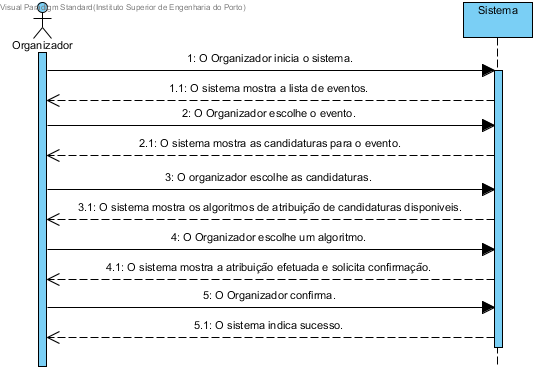
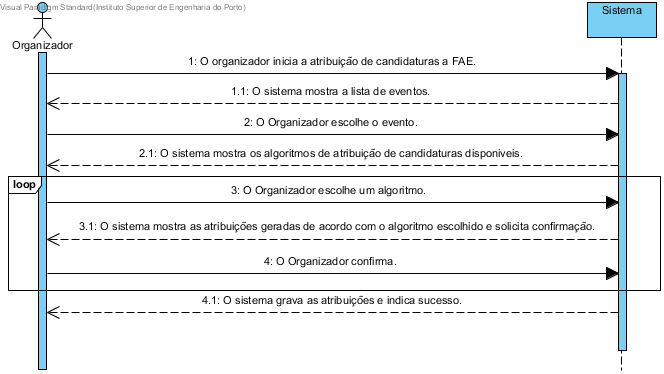
Reformulção do design do uc1 e uc4

Changed region(s): [[0.0, 0.0, 1.0, 1.0]]

diff --git a/Iteração 2/Design/UC4DOO.md b/Iteração 2/Design/UC4DOO.md
@@ -2,21 +2,19 @@
 
 ## Racional ##
 
-| Cenário principal                                                                                                                                                       | Questão: Que classe deve...                               | Resposta          | Justificação                                                                                |
-|-------------------------------------------------------------------------------------------------------------------------------------------------------------------------|-----------------------------------------------------------|-------------------|---------------------------------------------------------------------------------------------|
-| 1. O organizador inicia a atribuição de candidaturas a FAE.                                                                                                             | n/a                                                       |                   |                                                                                             |
-| 2. O sistema fornece a sua lista de eventos com candidaturas por atribuir e cuja a data de submissão de candidaturas tenha expirado e solicita a selecção de um evento. | ...procurar os eventos do organizador?                    | Centro de eventos | IE: é a classe reponsável por armazenar todos os eventos criados.                           |
-|                                                                                                                                                                         | ...procurar as datas de submissão de candidaturas?        | Evento            | IE: é a classe reponsável por armazenar todos os dados do evento.                           |
-| 3. O organizador escolhe um evento.                                                                                                                                     | n/a                                                       |                   |                                                                                             |
-| 4. O sistema apresenta uma lista das candidaturas por atribuir aos FAE desse evento.                                                                                    | ...procurar as candidaturas por atribuir do evento?       | Evento            | IE: é a classe responsável por armazenar todas as candidaturas do evento.                   |
-| 5. O organizador escolhe uma candidatura.                                                                                                                               | n/a                                                       |                   |                                                                                             |
-| 6. O sistema mostra os algoritmos de atribuição de candidaturas disponiveis.                                                                                            | ...executar o algoritmo?                                  | Algoritmo         | IE: é a classe responsável por armazenar todas as funcionalidades do algoritmo.             |
-| 7. O organizador escolhe um algoritmo.                                                                                                                                  | n/a                                                       |                   |                                                                                             |
-| 8. O sistema atribui a candidatura ao FAE com base no algoritmo.                                                                                                        | ...armazenar a candidatura por avaliar e o respetivo FAE? | Atribuição        | Creator                                                                                     |
-| 9. Os passos 4 a 8 repetem-se até todas as candidaturas do evento terem sido atribuidas.                                                                                | n/a                                                       |                   |                                                                                             |
-| 10. O sistema apresenta as atribuições definidas e solicita confirmação.                                                                                                | n/a                                                       |                   |                                                                                             |
-| 11. O organizador confirma.                                                                                                                                             | n/a                                                       |                   |                                                                                             |
-| 12. O sistema regista as atribuições de candidaturas a FAE e indica sucesso.                                                                                            | ...gravar as atribuições?                                 | Evento            | IE: é a classe responsável por armazenar as atribuições das candidaturas por avaliar e FAE. |
+| Cenário principal                                                                                                                                                       | Questão: Que classe deve...                               | Resposta          | Justificação                                                             |
+|-------------------------------------------------------------------------------------------------------------------------------------------------------------------------|-----------------------------------------------------------|-------------------|--------------------------------------------------------------------------|
+| 1. O organizador inicia a atribuição de candidaturas a FAE.                                                                                                             | n/a                                                       |                   |                                                                          |
+| 2. O sistema fornece a sua lista de eventos com candidaturas por atribuir e cuja a data de submissão de candidaturas tenha expirado e solicita a selecção de um evento. | ...procurar os eventos do organizador?                    | Centro de eventos | IE: é a classe reponsável por armazenar todos os eventos criados.        |
+|                                                                                                                                                                         | ...procurar as datas de submissão de candidaturas?        | Evento            | IE: é a classe reponsável por armazenar todos os dados do evento.        |
+| 3. O organizador escolhe um evento.                                                                                                                                     | n/a                                                       |                   |                                                                          |
+| 4. O sistema mostra os algoritmos de atribuição de candidaturas disponiveis.                                                                                            | ...procurar os algoritmos?                                | Centro de Eventos | IE: é a classe responsável por armazenar todos os algoritmos do sistema. |
+| 5. O organizador escolhe um algoritmo.                                                                                                                                  | n/a                                                       |                   |                                                                          |
+| 6. O sistema mostra as atribuições geradas de acordo com o algoritmo escolhido e pergunta se este deve ser considerado de forma definitiva.                             | ...armazenar a candidatura por avaliar e o respetivo FAE? | Atribuição        | IE: é a classe responsável por armazenar todos os dados da atribuição.   |
+|                                                                                                                                                                         | ...instanciar a atribuição?                               | Evento            | Creator                                                                  |
+| 7.,O Organizador responde à pergunta.                                                                                                                                   | n/a                                                       |                   |                                                                          |
+| 8. Os passos 4 a 7 são repetidos até à escolha definitiva do resultado do algoritmo.                                                                                    | n/a                                                       |                   |                                                                          |
+| 9. O sistema guarda as atribuições geradas, informando do sucesso da operação.                                                                                          | ...guardar as atribuições?                                | Evento            | IE: é a classe responsável por armazenar todas as atribuições do evento. |
 
 
 

diff --git a/Iteração 2/Design/UC1DOO.md b/Iteração 2/Design/UC1DOO.md
@@ -2,25 +2,26 @@
 
 ## Racional ##
 
-| Cenário principal                                                                                                                                         | Questão: Que classe deve... | Resposta          | Justificação                                                      |
-|-----------------------------------------------------------------------------------------------------------------------------------------------------------|-----------------------------|-------------------|-------------------------------------------------------------------|
-| 1. O gestor de eventos inicia o registo do evento.                                                                                                        | n/a                         |                   |                                                                   |
-| 2. O sistema solicita o tipo de evento(Congresso ou Exposição).                                                                                           | ...Instanciar o evento?     | Centro de Eventos | Creator                                                           |
-| 3. O gestor de eventos seleciona o tipo de evento.                                                                                                        | n/a                         |                   |                                                                   |
-| 4. O sistema solicita os dados do evento(titulo, descrição, data de inicio, data de fim, data limite de submissão de candidaturas e local de realização). | ...Armazenar os dados?      | Evento            | IE:classe responsável por armazenar os dados do evento            |
-| 5. O gestor de eventos introduz os dados solicitados.                                                                                                     | n/a                         |                   |                                                                   |
-| 6. O sistema solicita um organizador para o evento.                                                                                                       | n/a                         |                   |                                                                   |
-| 7. O gestor de eventos insere um organizador.                                                                                                             | n/a                         |                   |                                                                   |
-| 8. O sistema valida o organizador e adiciona-o ao evento.                                                                                                 | ..Armazenar os dados?       | Evento            | IE: classe que armazena os organizadores responsáveis pelo evento |
-|                                                                                                                                                           | ...Valida o organizador?    | Centro de Eventos | IE: classe que armazena os utilizadores criados                   |
-| 9. Os passos 6 a 8 repetem-se até que todos os organizadores tenham sido adicionados e no minimo tenham sido adicionados dois organizadores ao evento.    | n/a                         |                   |                                                                   |
-| 10. O sistema apresenta todos os dados e solicita confirmação do gestor.                                                                                  | n/a                         |                   |                                                                   |
-| 11. O gestor confirma os dados.                                                                                                                           | n/a                         |                   |                                                                   |
-| 12. O sistema regista o novo evento e informa o gestor do sucesso da operação.                                                                            | ...Registar o evento?       | Centro de Eventos | IE: classe que armazena todos os eventos                          |                                                                            
-
+| Cenário principal                                                                                                                                         | Questão: Que classe deve...  | Resposta          | Justificação                                                                    |
+|-----------------------------------------------------------------------------------------------------------------------------------------------------------|------------------------------|-------------------|---------------------------------------------------------------------------------|
+| 1. O gestor de eventos inicia o registo do evento.                                                                                                        | n/a                          |                   |                                                                                 |
+| 2. O sistema solicita o tipo de evento(Congresso ou Exposição).                                                                                           | ...instanciar o evento?      | Centro de Eventos | Creator                                                                         |
+| 3. O gestor de eventos seleciona o tipo de evento.                                                                                                        | n/a                          |                   |                                                                                 |
+| 4. O sistema solicita os dados do evento(titulo, descrição, data de inicio, data de fim, data limite de submissão de candidaturas e local de realização). | ...armazenar os dados?       | Evento            | IE: é a classe responsável por armazenar todos os dados do evento.              |
+| 5. O gestor de eventos introduz os dados solicitados.                                                                                                     | n/a                          |                   |                                                                                 |
+| 6. O sistema solicita um organizador para o evento.                                                                                                       | n/a                          |                   |                                                                                 |
+| 7. O gestor de eventos insere um organizador.                                                                                                             | n/a                          |                   |                                                                                 |
+| 8. O sistema valida o organizador e adiciona-o ao evento.                                                                                                 | ...procurar o utilizador?    | Centro de eventos | IE: classe que armazena os utilizadores criados                                 |
+|                                                                                                                                                           | ...guardar o utilizador?     | Organizador       | IE: classe que armazena a referencia do utilizador que é organizador do evento. |
+|                                                                                                                                                           | ...instanciar o organizador? | Evento            | Creator                                                                         |
+|                                                                                                                                                           | ...validar o organizador?    | Evento            | IE: classe que armazena os organizadores do evento                              |
+| 9. Os passos 6 a 8 repetem-se até que todos os organizadores tenham sido adicionados e no minimo tenham sido adicionados dois organizadores ao evento.    | n/a                          |                   |                                                                                 |
+| 10. O sistema apresenta todos os dados e solicita confirmação do gestor.                                                                                  | n/a                          |                   |                                                                                 |
+| 11. O gestor confirma os dados.                                                                                                                           | n/a                          |                   |                                                                                 |
+| 12. O sistema regista o novo evento e informa o gestor do sucesso da operação.                                                                            | ...registar o evento?        | Centro de Eventos | IE: classe que armazena todos os eventos                                        |
 
 ##	Diagrama de Sequência ##
-![UC1-Criar_Evento-SD.png](../Imagens/Design/UC1-Cria_Evento-SD.png)
+![UC1-Criar_Evento-SD.png](../Imagens/Design/UC1-Criar_Evento-SD.png)
 
 
 ##	Diagrama de Classes ##

diff --git a/Iteração 2/Engenharia de Requisito/Casos/UC4 - Atribuir candidaturas aos FAE.md b/Iteração 2/Engenharia de Requisito/Casos/UC4 - Atribuir candidaturas aos FAE.md
@@ -1,15 +1,13 @@
 # UC4 Atribuir Candidaturas
 ## Formato breve
-O Organizador inicia o sistema.
+O organizador inicia a atribuição de candidaturas a FAE.
 O sistema mostra a lista de eventos.
 O Organizador escolhe o evento.
-O sistema mostra as candidaturas para o evento.
-O organizador escolhe as candidaturas.
 O sistema mostra os algoritmos de atribuição de candidaturas disponiveis.
 O Organizador escolhe um algoritmo.
-O sistema mostra a atribuição efetuada e solicita confirmação.
+O sistema mostra as atribuições geradas de acordo com o algoritmo escolhido e solicita confirmação.
 O Organizador confirma.
-O sistema indica sucesso.
+O sistema grava as atribuições e indica sucesso.
 
 ## SSD de formato breve
 ![SSD_UC4.png](../../Imagens/SSD_UC4.png)
@@ -33,22 +31,19 @@ O sistema indica sucesso.
 1. O organizador inicia a atribuição de candidaturas a FAE.
 2. O sistema fornece a sua lista de eventos com candidaturas por atribuir e cuja a data de submissão de candidaturas tenha expirado e solicita a selecção de um evento.
 3. O organizador escolhe um evento.
-4. O sistema apresenta uma lista das candidaturas por atribuir aos FAE desse evento.
-5. O organizador escolhe uma candidatura.
-6. O sistema mostra os algoritmos de atribuição de candidaturas disponiveis.
-7. O organizador escolhe um algoritmo.
-8. O sistema atribui a candidatura ao FAE com base no algoritmo.
-9. Os passos 4 a 8 repetem-se até todas as candidaturas do evento terem sido atribuidas.
-10. O sistema apresenta as atribuições definidas e solicita confirmação.
-11. O organizador confirma.
-12. O sistema regista as atribuições de candidaturas a FAE e indica sucesso.
+4. O sistema mostra os algoritmos de atribuição de candidaturas disponiveis.
+5. O organizador escolhe um algoritmo.
+6. O sistema mostra as atribuições geradas de acordo com o algoritmo escolhido e pergunta se este deve ser considerado de forma definitiva.
+7.  O Organizador responde à pergunta.
+8. Os passos 4 a 7 são repetidos até à escolha definitiva do resultado do algoritmo.  
+9. O sistema guarda as atribuições geradas, informando do sucesso da operação.
 
 ### Extensões (ou fluxos alternativos)
 \*a. O utilizador (não registado) solicita cancelamento do registo.
 
 + O caso de uso termina.
 
-11a. O organizador não confirma.
+10a. O organizador não confirma.
 1. Nada é guardado permanentemente e os registos temporarios sao apagados.
 ## Requisitos especiais
 *
